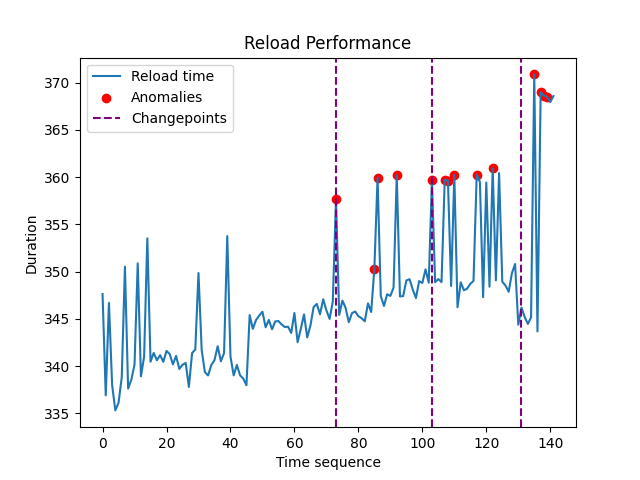
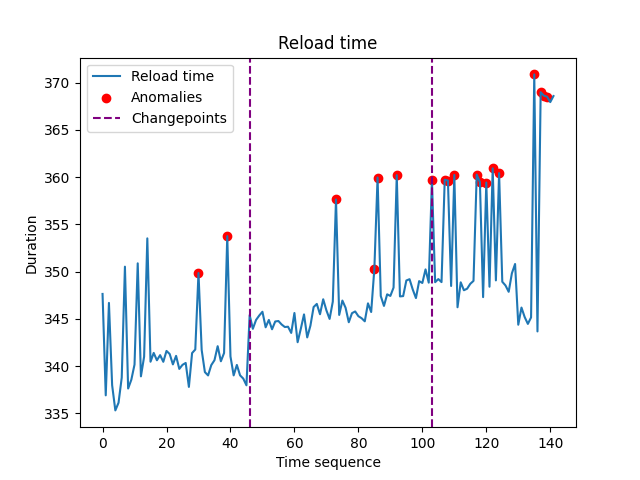
graph updates

diff --git a/Task.py b/Task.py
@@ -4,28 +4,38 @@ import math
 import pandas as pd
 import matplotlib.pyplot as plt
 
-def detect_anomalies(data, window_size=40, n_sigma=2):
+def detect_anomalies(data, window_size=20, n_sigma=3.5):
     anomaly = []
-    for i in range(window_size, len(data)): # For each point after window_size:
-        window = data[i - window_size : i] # 1. Get recent window of data
-        if data[i] > statistics.mean(window) + (n_sigma * statistics.stdev(window)): # 2. Calculate mean and std_dev # 3. Set threshold = mean + (n_sigma * std_dev)
-            anomaly.append(i) # 4. If current value > threshold, mark as anomaly
+    for i in range(window_size, len(data)):
+        window = data[i - window_size : i]
+        median = statistics.median(window)
+        mad = statistics.median([abs(x - median) for x in window]) or 1.0
+        if data[i] > median + (n_sigma * 1.4826 * mad):
+            anomaly.append(i)
             print(anomaly)
     return anomaly
 
 
 def detect_changepoints(data, min_size=10):
     divergence = {}
-    for c in range(min_size, len(data) - min_size): # For each possible split point:
-        before, after = data[:c], data[c:] # 1. Split data into before/after groups
-        difference = abs(statistics.mean(before) - statistics.mean(after)) # 2. Calculate mean and std_dev for each group
-        average = math.sqrt((statistics.stdev(before) ** 2 + statistics.stdev(after) ** 2) / 2)
-        divergence[c] = difference
+    for c in range(min_size, len(data) - min_size): 
+        before, after = data[:c], data[c:] 
+        difference = abs(statistics.mean(before) - statistics.mean(after)) 
+        try:
+            std_b = statistics.stdev(before)
+        except statistics.StatisticsError:
+            std_b = 0.0
+        try:
+            std_a = statistics.stdev(after)
+        except statistics.StatisticsError:
+            std_a = 0.0
+        average = math.sqrt((std_b**2 + std_a**2) / 2) or 1.0
+        divergence[c] = difference / average
     if not divergence:
         return []
-    largest_shifts = sorted(divergence.keys(), key=lambda x: divergence[x], reverse=True) # 4. Keep split with maximum divergence
+    largest_shifts = sorted(divergence.keys(), key=lambda x: divergence[x], reverse=True) 
     final_cps = []
-    for cp in largest_shifts: # 5. Filter nearby changepoints
+    for cp in largest_shifts: 
         if all(abs(cp - existing) >= min_size for existing in final_cps):
             final_cps.append(cp)
     print(final_cps)
@@ -34,39 +44,35 @@ def detect_changepoints(data, min_size=10):
 
 def check_router(parquet_path):
     df = pd.read_parquet(parquet_path)
-    value1 = df["total_size"].tolist()
+    value1 = df["total_seconds"].tolist()
     value2 = list(range(len(value1)))
     anomalies = detect_anomalies(value1)
-    clean_data = [value1[i] for i in range(len(value1)) if i not in anomalies]
+    clean_data = list(value1)
+    for idx in anomalies:
+        clean_data[idx] = statistics.median(value1[max(0, idx-10):min(len(value1), idx+10)])
     changepoints = detect_changepoints(clean_data)
     print(f"Mean: {statistics.mean(value1):.2f} | StdDev : {statistics.stdev(value1):.2f}")
     print(f"Anomalies: {anomalies} | Changepoints: {changepoints}")
     plt.plot(value2, value1, label='Reload time')
     plt.scatter(anomalies, [value1[i] for i in anomalies], color='r', label='Anomalies')
     if changepoints:
-        divergence_scores = {}
-        for c in changepoints:
-            before, after = value1[:c], value1[c:]
-            divergence_scores[c] = abs(statistics.mean(before) - statistics.mean(after))
-        score_sort = sorted(divergence_scores.keys(), key=lambda x: divergence_scores[x], reverse=True)
+        div_scores = {c: abs(statistics.mean(value1[:c]) - statistics.mean(value1[c:])) for c in changepoints}
+        score_sort = sorted(div_scores.keys(), key=lambda x: div_scores[x], reverse=True)
         top_cp = []
         for cp in score_sort:
-            if all(abs(cp - existing) >= 20 for existing in top_cp):
-                top_cp.append(cp)
-            if len(top_cp) == 3:
-                break
+            if all(abs(cp - e) > 40 for e in top_cp): top_cp.append(cp)
+            if len(top_cp) == 2: break
     else:
         top_cp = []
     for i,cp in enumerate(top_cp):
         plt.axvline(cp, color='purple', ls ='--', label='Changepoints' if i == 0 else "")
-    plt.title("Memory Usage")
+    plt.title("Reload time")
     plt.xlabel("Time sequence")
-    plt.ylabel("Memory used")
+    plt.ylabel("Duration")
     plt.legend()
-    plt.savefig('3_memory_usage.png')
+    plt.savefig('1_reload_time_1.png')
     
 def main():
-    check_router('task/real_data/metric3_run1.pq')
+    check_router('task/real_data/metric1_run1.pq')
 
 main()
-
